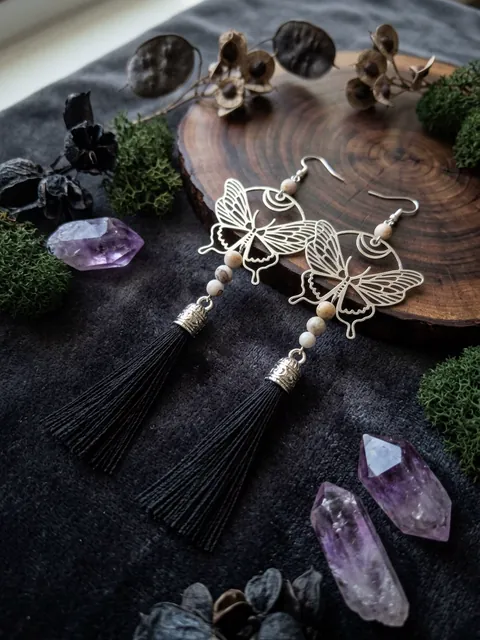
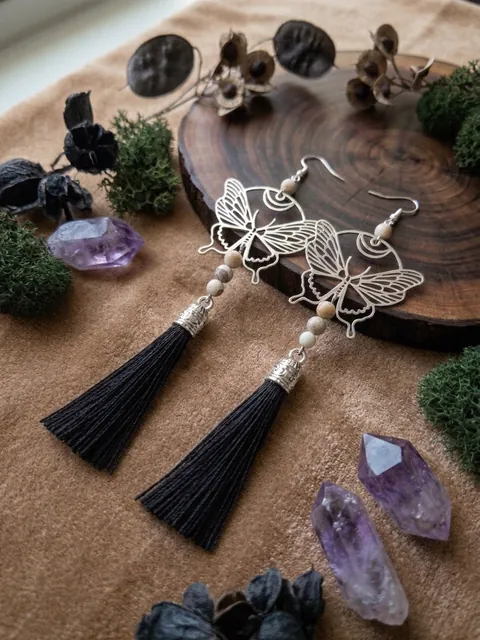
Earrings photo, Order button only

diff --git a/kolekcja/index.html b/kolekcja/index.html
@@ -54,7 +54,7 @@
         <h3>Kolczyki z motylami</h3>
         <p>Ażurowe motyle, koraliki z opalu peruwiańskiego i czarne frędzle.</p>
         <p class="price">80 z&#322;</p>
-        <div class="buy"><a class="btn" href="https://ig.me/m/lillith_soul" rel="noopener">Kup</a><a class="btn btn-ghost" href="https://ig.me/m/lillith_soul" rel="noopener">Zamów</a></div>
+        <div class="buy"><a class="btn" href="https://ig.me/m/lillith_soul" rel="noopener">Zamów</a></div>
       </article>
     </div>
     <p class="text products-soon" hidden>Ta kategoria pojawi się wkrótce.</p>

diff --git a/style.css b/style.css
@@ -141,8 +141,6 @@ a{color:inherit;text-decoration:none}
 .grid .card p.price{font:600 1.15rem Montserrat,sans-serif;color:var(--gold-l)}
 .buy{display:flex;gap:10px;margin-top:auto}
 .grid .btn{padding:9px 24px;font-size:.85rem}
-.buy .btn:first-child{background:var(--gold);color:var(--bg)}
-.buy .btn:first-child:hover{background:var(--gold-l)}
 a.hex{cursor:pointer}
 a.hex:focus-visible{outline:2px solid var(--gold-l);outline-offset:-4px}
 .products-soon{margin-top:28px}
